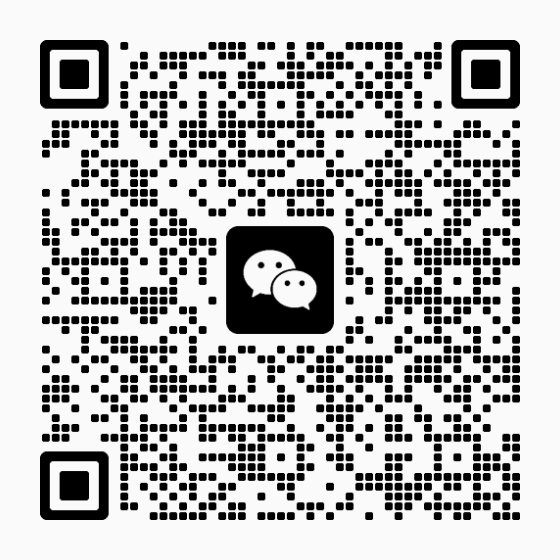
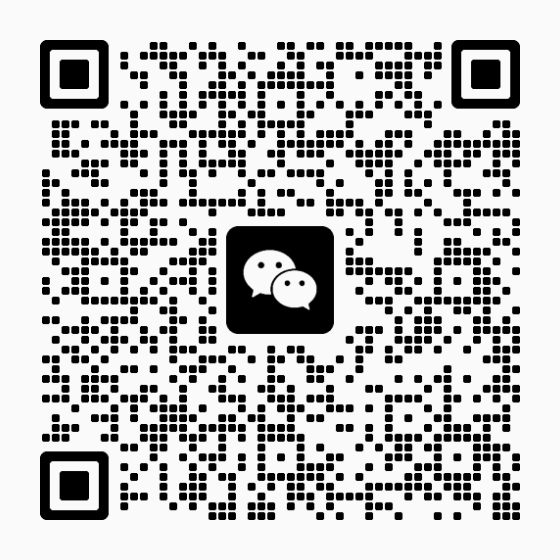
Update challenge deadlines, participation rules, and WeChat QR code

Changed region(s): [[0.0607, 0.0607, 0.9411, 0.9411]]

diff --git a/index.md b/index.md
@@ -58,6 +58,10 @@ title: ""
   <div class="header">News</div>
   <ul>
     <li>
+      <div class="date">2026-10-03</div>
+      <div class="item">The <a href="#registration-and-leaderboard">registration deadline</a> has been extended from October 1 to <strong>October 8, 2026</strong>. The <a href="track2/">Agent Track</a> model release cutoff has been extended from October 1 to <strong>November 1, 2026</strong>. The specific versions and weights of all model components must have been publicly released <strong>before November 1, 2026</strong>.</div>
+    </li>
+    <li>
       <div class="date">2026-09-11</div>
       <div class="item">The baselines for both the Single Model Track and the Agent Track are now available! Check out the code and usage instructions on <a href="https://github.com/Audio-Editing-Challenge/Audio-Editing-Challenge-Baseline" target="_blank" rel="noopener noreferrer">GitHub</a>.</div>
     </li>
@@ -100,13 +104,14 @@ The challenge features two complementary tracks:
 |-------|------|
 | Registration Opens and Challenge Guidelines Released | September 1, 2026 |
 | Challenge Begins | October 1, 2026 |
-| Data Released and Leaderboard Opens for Submissions | November 10, 2026 |
+| Registration Deadline (Extended) | October 8, 2026 |
+| Challenge Test Set and Submission SDK Released; Leaderboard Opens | November 10, 2026 |
 | Final Submission Deadline and Leaderboard Freeze | November 25, 2026 |
 | Evaluation and Reproducibility Check Completed | December 7, 2026 |
 | Final Rankings and Invited Teams Announced | December 8, 2026 |
 | Invited Two-Page ICASSP Papers Due | January 7, 2027 |
 
-**Note:** All deadlines are at 11:59 PM on the respective day in U.S. Pacific Time. This tentative timeline is subject to change in accordance with the ICASSP 2027 conference schedule.
+**Note:** Registration and submission deadlines are at 11:59 PM on the respective day in U.S. Pacific Time. For the Agent Track, model versions and weights must have been publicly released **before November 1, 2026**. This tentative timeline is subject to change in accordance with the ICASSP 2027 conference schedule.
 
 ## Challenge Tracks
 
@@ -139,7 +144,9 @@ The challenge provides **open-source baselines for both the Single Model Track a
 
 ### Benchmark
 
-During the development and leaderboard stages, both tracks use the public **MMAE benchmark**, comprising **2,000 examples** and **17,741 atomic rubrics**. The dataset is available on [Hugging Face](https://huggingface.co/datasets/BoJack/MMAE). For final evaluation, the Single Model Track and the Agent Track will each use **500 previously unreleased test examples** held by the organizers. The two tracks will be ranked independently. These examples are constructed through the same MMAE pipeline and manually annotated and verified. Track 1 will be evaluated on examples from any audio modality in the MMAE **single** complexity category; the Agent Track will be evaluated across any audio modality and any complexity category. Test inputs and editing instructions will be provided for inference, while the rubrics remain private until the official results are finalized. The complete final set and its rubrics will be released after the competition.
+**Before November 10, 2026**, participants may use the publicly available **MMAE test set**, comprising **2,000 examples** and **17,741 atomic rubrics**, to develop and evaluate their models and agent systems. The dataset is available on [Hugging Face](https://huggingface.co/datasets/BoJack/MMAE).
+
+**On November 10, 2026**, the organizers will release the **previously unreleased challenge test set** and the **submission software development kit (SDK)** for uploading results. The leaderboard will open for submissions on the same date. The Single Model Track and the Agent Track will each use **500 previously unreleased test examples**, and the two tracks will be ranked independently. These examples are constructed through the same MMAE pipeline and manually annotated and verified. Track 1 will be evaluated on examples from any audio modality in the MMAE **single** complexity category; the Agent Track will be evaluated across any audio modality and any complexity category. Test inputs and editing instructions will be provided for inference, while the rubrics remain private until the official results are finalized. The complete final set and its rubrics will be released after the competition.
 
 ### Submission Format
 
@@ -163,7 +170,9 @@ Systems are ranked primarily by **Overall EMR**, with ties broken first by Overa
 
 ## Registration and Leaderboard
 
-Team registration is now open. To participate, please complete the [registration form](https://docs.google.com/forms/d/e/1FAIpQLSe3aLZSnqrpCq5Kg2Kw09Xvy0QpGZzraC9tzeGp-G6fob1q4g/viewform). Register early to receive the latest challenge updates.
+The registration deadline has been extended from October 1 to **October 8, 2026**. To participate, please complete the [registration form](https://docs.google.com/forms/d/e/1FAIpQLSe3aLZSnqrpCq5Kg2Kw09Xvy0QpGZzraC9tzeGp-G6fob1q4g/viewform). Register early to receive the latest challenge updates.
+
+Before submissions open on **November 10, 2026**, the organizers will send a form to collect and confirm each team's final member list, **including supervisors and team leaders**. Except in special circumstances, **changes to team membership will not be permitted once submissions open**. **Each person may participate in both tracks, but may be listed on only one team per track.**
 
 [Learn more about Leaderboard](leaderboard)
 

diff --git a/pages/leaderboard.md b/pages/leaderboard.md
@@ -4,13 +4,15 @@ title: Leaderboard
 permalink: /leaderboard/
 ---
 
-<!-- The registration form and leaderboard URLs will be added after they are confirmed. -->
+The leaderboard will open for submissions on **November 10, 2026**, when the organizers will release the challenge test set and the submission software development kit (SDK). The submission link will be announced here.
 
 ## Benchmark and Evaluation Protocol
 
 ### Benchmark
 
-During the development and leaderboard stages, both tracks use the public **MMAE benchmark**, comprising **2,000 examples** and **17,741 atomic rubrics** and available on [Hugging Face](https://huggingface.co/datasets/BoJack/MMAE). For final evaluation, the Single Model Track and the Agent Track will each use **500 previously unreleased test examples** held by the organizers. The two tracks will be ranked independently. These examples are constructed through the same MMAE pipeline and manually annotated and verified.
+**Before November 10, 2026**, participants may use the publicly available **MMAE test set**, comprising **2,000 examples** and **17,741 atomic rubrics** and available on [Hugging Face](https://huggingface.co/datasets/BoJack/MMAE), to develop and evaluate their models and agent systems.
+
+**On November 10, 2026**, the organizers will release the **previously unreleased challenge test set** for leaderboard submissions. The Single Model Track and the Agent Track will each use **500 previously unreleased test examples**. The two tracks will be ranked independently. These examples are constructed through the same MMAE pipeline and manually annotated and verified. Test inputs and editing instructions will be provided for inference; evaluation rubrics will remain private until the official results are finalized.
 
 ### Submission Format
 
@@ -30,15 +32,21 @@ The audio files and JSONL manifest are packaged together and uploaded to the cha
 
 Systems are ranked primarily by **Overall EMR**, with ties broken first by Overall IFR and then by Overall CR.
 
+## Team Membership
+
+Before submissions open on **November 10, 2026**, the organizers will send a form to collect and confirm each team's final member list, **including supervisors and team leaders**. Except in special circumstances, **changes to team membership will not be permitted once submissions open**. **Each person may participate in both tracks, but may be listed on only one team per track.**
+
 ## Competition Timeline
 
 | Event | Date |
 |-------|------|
-| Participant Registration Opens | September 1, 2026 |
-| Challenge Announcement, Detailed Rules, and Data Release | October 1, 2026 |
-| Leaderboard Opens for Submissions | November 1, 2026 |
-| Leaderboard Submission Deadline | December 1, 2026 |
-| Submission Verification, Final Rankings, and Winner Announcement | December 8, 2026 |
-| Invited Two-Page ICASSP Paper Submission Deadline | January 7, 2027 |
+| Registration Opens and Challenge Guidelines Released | September 1, 2026 |
+| Challenge Begins | October 1, 2026 |
+| Registration Deadline (Extended) | October 8, 2026 |
+| Challenge Test Set and Submission SDK Released; Leaderboard Opens | November 10, 2026 |
+| Final Submission Deadline and Leaderboard Freeze | November 25, 2026 |
+| Evaluation and Reproducibility Check Completed | December 7, 2026 |
+| Final Rankings and Invited Teams Announced | December 8, 2026 |
+| Invited Two-Page ICASSP Papers Due | January 7, 2027 |
 
-After December 1, 2026, the leaderboard will remain open, but later submissions will not be considered for the official challenge rankings. The timeline is tentative and subject to change in accordance with the ICASSP 2027 conference schedule.
+**Note:** Registration and submission deadlines are at 11:59 PM on the respective day in U.S. Pacific Time. For the Agent Track, model versions and weights must have been publicly released **before November 1, 2026**. This tentative timeline is subject to change in accordance with the ICASSP 2027 conference schedule.

diff --git a/pages/faqs.md b/pages/faqs.md
@@ -4,4 +4,22 @@ title: FAQs
 permalink: /faqs/
 ---
 
-<!-- Confirmed frequently asked questions and answers will be added here. -->
+## What is the registration deadline?
+
+The registration deadline has been extended from October 1 to **October 8, 2026, at 11:59 PM U.S. Pacific Time**. Teams can register using the [registration form](https://docs.google.com/forms/d/e/1FAIpQLSe3aLZSnqrpCq5Kg2Kw09Xvy0QpGZzraC9tzeGp-G6fob1q4g/viewform).
+
+## What is the Agent Track model release cutoff?
+
+The specific versions and weights of **all model components** in the agent system must have been publicly released **before November 1, 2026**. This extends the previous cutoff of October 1, 2026. See the [Agent Track rules](../track2/) for the full restrictions.
+
+## Which data can teams use before submissions open?
+
+**Before November 10, 2026**, participants may use the publicly available [MMAE test set](https://huggingface.co/datasets/BoJack/MMAE) to develop and evaluate their models and agent systems. **On November 10, 2026**, the organizers will release the previously unreleased challenge test set and the submission software development kit (SDK) for uploading results. The [leaderboard](../leaderboard/) will open for submissions on the same date.
+
+## When is the final team member list confirmed?
+
+Before submissions open on **November 10, 2026**, the organizers will send a form to collect and confirm each team's final member list, **including supervisors and team leaders**. Except in special circumstances, **changes to team membership will not be permitted once submissions open**.
+
+## Can a person participate in both tracks or join multiple teams?
+
+**Each person may participate in both tracks, but may be listed on only one team per track.** The confirmed member list includes supervisors and team leaders.

diff --git a/pages/track2.md b/pages/track2.md
@@ -12,7 +12,7 @@ Participants must build an **autonomous audio editing agent** that independently
 
 **Rules and Restrictions:**
 
-1. **Open-source models, tools, and data only.** Every component and data resource must be publicly available under research-permissive terms. The specific versions and weights of **all model components** in the agent system must have been publicly released **before October 1, 2026**. **Closed-source models are prohibited.**
+1. **Open-source models, tools, and data only.** Every component and data resource must be publicly available under research-permissive terms. The specific versions and weights of **all model components** in the agent system must have been publicly released **before November 1, 2026**. This extends the previous cutoff of October 1, 2026. **Closed-source models are prohibited.**
 2. **LLM deployment and API access.** Large language models (LLMs) used by the system may be deployed locally or accessed through cloud APIs, provided that the API-served version corresponds to publicly released model weights. Closed-source LLMs are prohibited. **All other models and tools must run locally.**
 3. **Reproducibility and auditing.** Teams must provide model versions, links to model weights, and evidence of their public release dates, along with deployment and API invocation configurations and execution logs. Finalists must also provide runnable code, environment specifications, prompts, tool-call records, intermediate artifacts, random seeds, runtimes, and final outputs for audit.
 4. **No human-in-the-loop.** Inference-time human assistance, output selection, and manual curation or post-processing are strictly prohibited.

diff --git a/pages/timeline.md b/pages/timeline.md
@@ -8,11 +8,13 @@ permalink: /timeline/
 
 | Event | Date |
 |-------|------|
-| Participant Registration Opens | September 1, 2026 |
-| Challenge Announcement, Detailed Rules, and Data Release | October 1, 2026 |
-| Leaderboard Opens for Submissions | November 1, 2026 |
-| Leaderboard Submission Deadline | December 1, 2026 |
-| Submission Verification, Final Rankings, and Winner Announcement | December 8, 2026 |
-| Invited Two-Page ICASSP Paper Submission Deadline | January 7, 2027 |
+| Registration Opens and Challenge Guidelines Released | September 1, 2026 |
+| Challenge Begins | October 1, 2026 |
+| Registration Deadline (Extended) | October 8, 2026 |
+| Challenge Test Set and Submission SDK Released; Leaderboard Opens | November 10, 2026 |
+| Final Submission Deadline and Leaderboard Freeze | November 25, 2026 |
+| Evaluation and Reproducibility Check Completed | December 7, 2026 |
+| Final Rankings and Invited Teams Announced | December 8, 2026 |
+| Invited Two-Page ICASSP Papers Due | January 7, 2027 |
 
-**Note:** After December 1, 2026, the leaderboard will remain open and continue to evaluate new submissions, but these submissions will not be considered for the official challenge rankings. This tentative timeline is subject to change in accordance with the ICASSP 2027 conference schedule.
+**Note:** Registration and submission deadlines are at 11:59 PM on the respective day in U.S. Pacific Time. For the Agent Track, model versions and weights must have been publicly released **before November 1, 2026**. This tentative timeline is subject to change in accordance with the ICASSP 2027 conference schedule.
